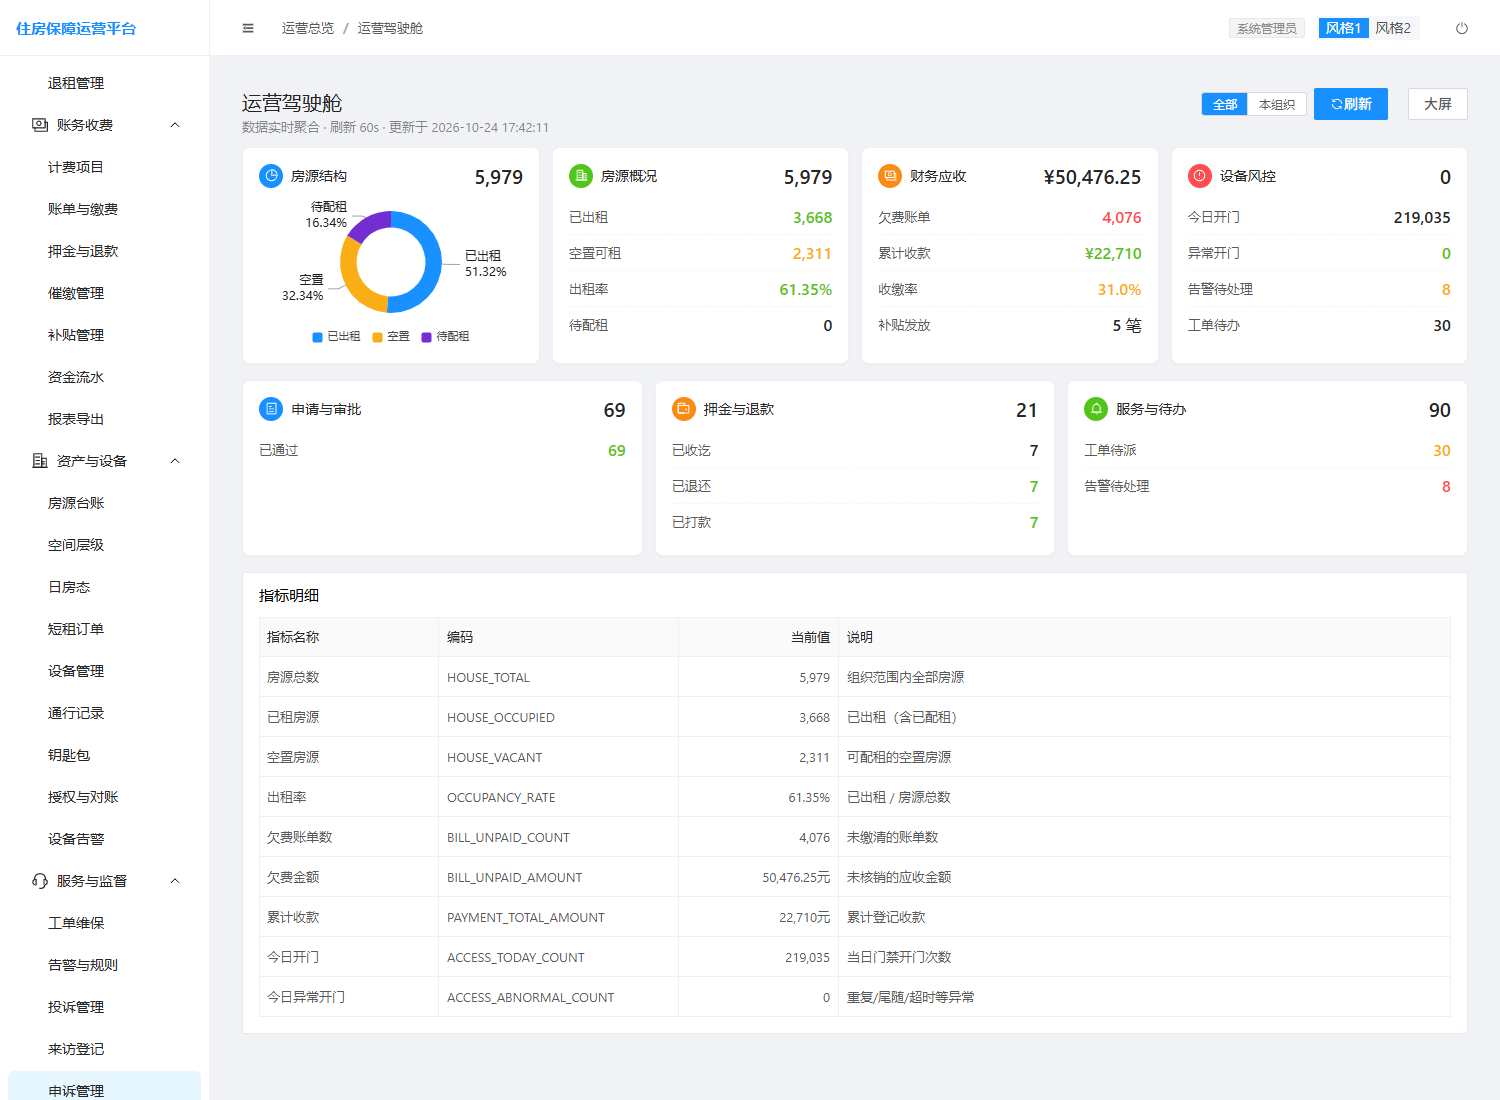
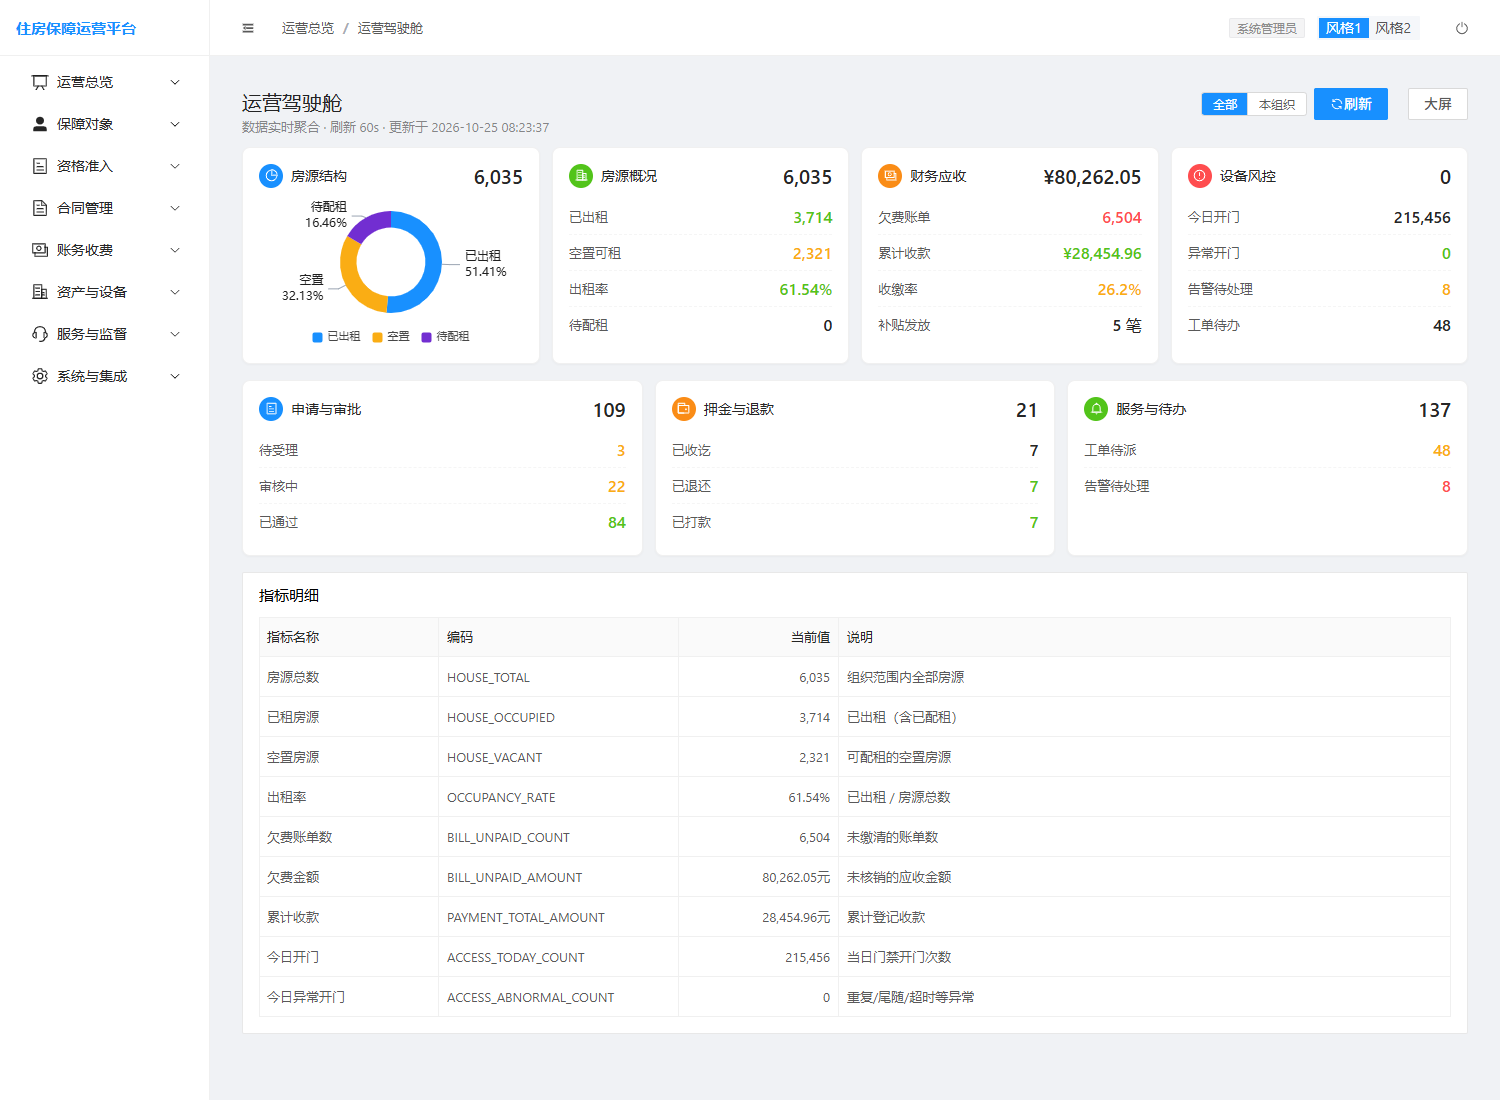
fix(menu): register device-bind/dev-events in classic groups with fallback

diff --git a/frontend/src/layout/useMenu.js b/frontend/src/layout/useMenu.js
@@ -202,7 +202,14 @@ export function useMenu() {
     const out = []
     for (const name of CLASSIC_ORDER) {
       const items = menus.value
-        .filter((m) => (CLASSIC_GROUP[m.path] || CLASSIC_GROUP[m._parent]) === name)
+        .filter((m) => {
+          const key = m.path || m._parent
+          const mapped = CLASSIC_GROUP[key] || CLASSIC_GROUP[m._parent]
+          if (mapped) return mapped === name
+          // 兜底：未登记的路径使用 meta.group（旧名走别名）
+          const g = GROUP_ALIAS[m.meta?.group] || m.meta?.group
+          return g === name
+        })
         .sort((a, b) => rankOf(a) - rankOf(b))
       if (items.length) {
         out.push({ name, icon: CLASSIC_ICON[name] || 'Menu', items })

diff --git a/_验证/_check_menu.py b/_验证/_check_menu.py
@@ -1,0 +1,43 @@
+# -*- coding: utf-8 -*-
+"菜单完整性检查：路由必须能在菜单里出现（避免白名单漏登记）。"
+import io
+import os
+import re
+import sys
+
+ROOT = os.path.abspath(os.path.join(os.path.dirname(os.path.abspath(__file__)), '..'))
+ROUTER = os.path.join(ROOT, 'frontend', 'src', 'router', 'index.js')
+MENU = os.path.join(ROOT, 'frontend', 'src', 'layout', 'useMenu.js')
+
+src = io.open(ROUTER, encoding='utf-8').read()
+menu = io.open(MENU, encoding='utf-8').read()
+
+paths = []
+for m in re.finditer(r"path:\s*'(/[^']*)'", src):
+    p = m.group(1)
+    if p in ('/', '/login') or p.startswith('/screen'):
+        continue
+    block = src[m.start():m.start() + 400]
+    if 'meta:' not in block or 'title:' not in block:
+        continue
+    paths.append(p.split('/:')[0])
+
+missing = []
+for p in sorted(set(paths)):
+    if ("'" + p + "'") in menu:
+        continue
+    # 兜底逻辑存在时，meta.group 也会进菜单
+    if 'GROUP_ALIAS[m.meta?.group]' in menu:
+        continue
+    missing.append(p)
+
+print('=' * 62)
+print('菜单完整性：%d 个业务路由' % len(set(paths)))
+if missing:
+    print('  以下路由未登记到菜单分组（用户看不到）：')
+    for p in missing:
+        print('    ✗ ' + p)
+    print('=' * 62)
+    sys.exit(1)
+print('  ✔ 所有业务路由均可在菜单中出现')
+print('=' * 62)

diff --git a/_验证/_check_all.py b/_验证/_check_all.py
@@ -19,6 +19,7 @@ STEPS = [
     ('接口路径核对（前后端一致性）', '_check_api_paths.py', STRICT),
     ('查询参数接线（前端传的键后端必须认）', '_audit_params.py', ['--strict']),
     ('显示层一致性（字段/枚举/ID/树）', '_check_display.py', STRICT),
+    ('菜单完整性（路由都能在菜单出现）', '_check_menu.py', STRICT),
     ('数据范围扫描（列表接口必须限权）', '_check_datascope.py', STRICT),
     ('数据范围运行时校验（租户 vs 管理员）', '_check_scope_runtime.py', STRICT),
     ('全功能页面对照（46 项）', '_verify_all_pages.py', []),

diff --git a/10_业务操作流程与验收手册.md b/10_业务操作流程与验收手册.md
@@ -939,3 +939,22 @@ ightlyPrice |
 主干旅程 6 条（31 步） + 边缘旅程 4 条（21 步） = 52 步
 ✔ 全流程闭环
 `
+
+### F.8 菜单完整性守护
+
+**问题**：风格1 侧栏的分组是一张「路径 → 分组」白名单（useMenu.js 的 CLASSIC_GROUP）。
+新增页面若忘记登记，菜单里**不会出现**——功能写完却找不到入口。
+设备绑定、设备告警 两个页面就因此一度在风格1 下不可见。
+
+**修复**：
+
+1. 补齐 CLASSIC_GROUP 登记；
+2. 增加**兜底逻辑**：白名单未命中时，改用路由的 meta.group（旧名走 GROUP_ALIAS）；
+3. 新增 _check_menu.py：扫描所有业务路由，未登记且无兜底则报错。
+
+`
+菜单完整性：45 个业务路由
+  ✔ 所有业务路由均可在菜单中出现
+`
+
+已接入 _check_all.py，以后新增页面漏登记会直接失败。
